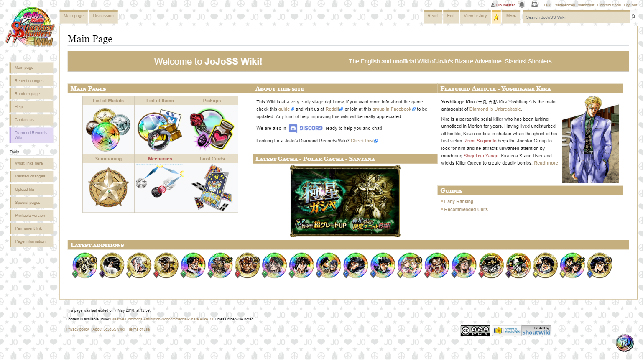
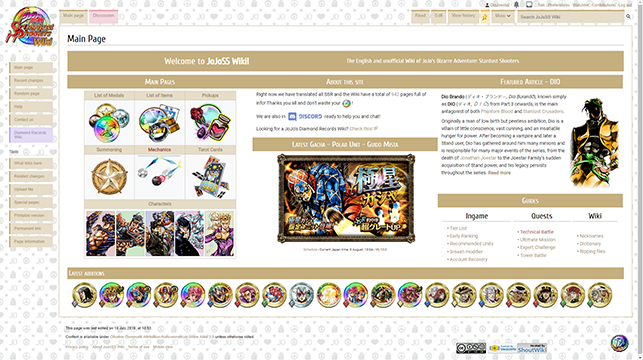
Updated

diff --git a/index.html b/index.html
@@ -12,14 +12,12 @@
 	<!-- jQuery + jQuery UI -->
 	<script type="text/javascript" src="http://ajax.googleapis.com/ajax/libs/jquery/1.3.2/jquery.min.js"></script>
 	<script type="text/javascript" src="http://ajax.googleapis.com/ajax/libs/jqueryui/1.8.9/jquery-ui.min.js"></script>
-
 	<script type="text/javascript">
 	$(function() {
 		$( ".drag" ).draggable({containment: "parent", scroll: false, stack: ".drag"});
 		$( ".drag2" ).draggable({containment: "parent", grid: [ 80, 100 ], opacity: 0.7, scroll: true,});
 	});
 	</script>
-	
 </head>
 <body>
 	<header>
@@ -29,6 +27,12 @@
 		<div class="header">
 			<div id="avatar"></div>
 			<h1>Raúl 'Dio Joestar' Jiménez <span style="color:#ebc055; font-weight:bold;">PORTFOLIO</span></h1>
+			<div class="headerContent">
+				<ul>
+					<li><a href="https://www.artstation.com/diojoestar">ArtStation</a></li>
+					<li><a href="https://www.linkedin.com/in/ra%C3%BAl-jim%C3%A9nez-carrillo-778963105">LinkedIn</a></li>
+				</ul>
+			</div>
 		</div>
 	</header>
 	<div id="menu">
@@ -41,15 +45,16 @@
 	</div>
 	<section id="Main">
 		<div class="container">
-			<div class="edu" style="background:rgba(249, 146, 0, 0.2)">
+			<div class="edu" style="background:rgba(249, 146, 0, 0.2); border-color: #74644e;">
 				<h3>Work in Progress</h3>
 				<p>My portfolio still WiP right now. Check <a target="_blank" href="https://github.com/DioJoestar/Portfolio">GitHub</a> for the last updates.</p>
 			</div>
 			<div class="edu">
 				<h3>Work Experience</h3>
 				<ul>
-					<li><b>Printer Technician</b></li>
-						<ul><li>June 2016 - Currently - <i><a target="_blank" href="http://www.venture.com.sg">Venture Electronics Spain S.L.</a></i> at HP in Sant Cugat del Vallès - Spain</li></ul>
+					<li><b>Technician QA Tester</b></li>
+						<ul><li>June 2016 - April 2019 - <i><a target="_blank" href="http://www.venture.com.sg">Venture Electronics Spain S.L.</a></i> at HP in Sant Cugat del Vallès - Spain</li></ul>
+						<ul>Operating for QA test with large format printers of HP. I worked with the printers <a href="https://www8.hp.com/us/en/commercial-printers/latex-printers/r-series.html">HP Latex R1000 and HP Latex R2000</a>.</ul>
 					<hr />
 					<li><b>Maintenance Technician</b> (Traineeship)</li>
 						<ul><li>Sept. 2012 - Feb. 2013 - <i><a target="_blank" href="http://www.inology.com">Multimos, S.A. (Inology)</a></i> at Terrassa - Spain</li></ul>
@@ -69,11 +74,11 @@
 		<article>
 			<a href="#"><h1>About</h1></a>
 			<hr />
-			<p>Hello, my name is Raúl Jiménez Carrillo also know  Dio Joestar as nickname. I have 25 years old and I'm from Barcelona, Spain.</p>
+			<p>Hello, my name is Raúl Jiménez Carrillo also know  Dio Joestar as nickname. I have <span id="myAge">00</span> years old and I'm from Barcelona, Spain.</p>
 			<br />
 			<p>Since I was a child, I always enjoyed modding and personalizing my computer and video games, from changing the sounds until making new maps.</p>
 			<br />
-			<p>Right now I'm working as technician for <a target="_blank" href="http://www.venture.com.sg">Venture</a> in the HP offices at Sant Cugat del Vallès. I work there testing new large format printers, reporting errors, taking care of supplies, checking the quality of the prints...</p>
+			<p>I also like collecting figures.</p>
 		</article>
 	</section>	
 	<section class="background" id="RETF2">
@@ -97,9 +102,30 @@
 			</div>
 			<div id="B" style="">
 				<p>At 2015 <a target="_blank" href="http://www.teamfortress.com/post.php?id=17410">we did it again</a>, this time with support from <a target="_blank" href="http://www.extelevision.com/">eXtelevision</a>. The Retrospective 2 tournament had over 2300 participants in a total of 5 formats (Highlander, 6v6, RSP, Arena respawn, and Ultiduo).</p>
+				<div class="gallery-container">
+					<ul>
+						<li><a title="Render with Source Filmmaker" href="#RETF2" onclick="document.getElementById('RETF2').className='retros1 background'"><div class="img-small clickable" style="background: url(img/ee22/retrospective_winner.jpg);"></div></a></li>
+						<li><a title="The medals in HLMV" href="#RETF2" onclick="document.getElementById('RETF2').className='retros2 background'"><div class="img-small clickable" style="background: url(img/ee22/retrospective_participant.jpg);"></div></a></li>
+						<div style="clear: both;"></div>
+					</ul>
+				</div>
 			</div>
 			<label for="checkbox" class="scrollbutton"></label>
 		</article>
+	</section>
+	<section id="JoJoSS">
+		<iframe src="http://jojoss.shoutwiki.com/wiki/Main_Page" scrolling="left">
+				<p>Your browser does not support iframes. <a target="_blank" href="http://jojoss.shoutwiki.com">Click here</a>.</p>
+				<a target="_blank" href="http://jojoss.shoutwiki.com">Click here</a>.</p>
+		</iframe>
+		<article>
+			<a href="#JoJoSS"><h1>JoJoSS Wiki</h1></a>
+			<hr />
+			<p>My last proyect and currently active. The <a target="_blank" href="http://jojoss.shoutwiki.com" target="blank_">JoJoSS Wiki</a> it's an unofficial Wiki of JoJo's Bizarre Adventure: Stardust Shooters videogame for Android and iOS.</p> 
+			<br />
+			<p>The game is only available in Japan, that means that there is no translation in any language, so I decided to create a Wiki with a translations of the units (I translate it with help of some friends and Google translate, since I barely have any knowledge of Japanese.).</p>
+			<br />
+		</article>		
 	</section>
 	<section id="OnlineSDK">
 		<iframe src="https://web.archive.org/web/20170216183000/http://onlinesdk.webege.com/" scrolling="left">
@@ -113,7 +139,7 @@
 			<br />
 			<p>It was born as a site where I could share my documentation about modding and a way for learn HTML, CSS, and PHP on my way.</p>
 			<br />
-			<p>Right now it's only an abandoned project.</p>
+			<p>Right now it's only an abandoned project. The embed website is from the <a href="https://archive.org/web/">Wayback Machine</a>.</p>
 			<img class="man" src="img/svg/man.svg"></img>
 		</article>		
 	</section>
@@ -154,7 +180,7 @@
 				<li><div class="wrap"><a target="_blank" target="_blank" href="http://dio-joestar.deviantart.com/art/Demoman-512882327"><div class="img clickable" style="background: url(img/gallery/w_cyclops_visor.jpg)"></div></a></div></li>
 				<li><div class="wrap"><a target="_blank" target="_blank" href="http://dio-joestar.deviantart.com/art/JoJo-s-Bizarre-Adventure-Killer-Queen-519590836"><div class="img clickable" style="background: url(img/gallery/w_killer_queen.jpg)"></div></a></div></li>
 				<li><div class="wrap"><a target="_blank" target="_blank" href="http://tf2.gamebanana.com/skins/131811"><div class="img clickable" style="background: url(img/gallery/demoman_hd.jpg)"></div></a></div></li>
-				<li><div class="wrap"><a target="_blank" target="_blank" href="http://steamcommunity.com/sharedfiles/filedetails/?id=473320009"><div class="img clickable" style="background: url(img/gallery/tf2_trade_stardust_map.jpg)"></div></a></div></li>
+				<li><div class="wrap"><a target="_blank" target="_blank" href="img/gallery/bball1daycup.jpg"><div class="img clickable" style="background: url(img/gallery/bball1daycup.jpg)"></div></a></div></li>
 				<li><div class="wrap"><a target="_blank" target="_blank" href="http://jojoss.shoutwiki.com"><div class="img clickable" style="background: url(img/gallery/JoJoSSWiki.jpg)"></div></a></div></li>
 				<div style="clear: both;"></div>
 			</ul>
@@ -167,10 +193,11 @@
 	</section>
 	<section id="Footer">
 		<div class="foot">
-<pre style="width:100%" >Porforlio made by Raúl 'Dio Joestar' Jiménez. Done with HTML, CSS and jQuery. Last update - 12 May, 2018
+<pre style="width:100%" >Porforlio made by Raúl 'Dio Joestar' Jiménez. Done with HTML, CSS and jQuery. Last update - 06 August, 2019
 
 	Hosted at <a target="_blank" href="https://github.com/DioJoestar/Portfolio">GitHub</a>.</pre>
 		</div>
 	</section>
 </body>
+	<script type="text/javascript" src="js/script.js"></script>
 </html>

diff --git a/css/style.css b/css/style.css
@@ -13,6 +13,7 @@ article,aside,details,figcaption,figure,footer,header,hgroup,menu,nav,section{di
 :root {
 	--main-color: #ebc055;
 	--main-color2: #ffd05c;
+	--secondary-color: #494949;
 	--retf2-color: #bf3d3d;
 	--retf2-color2: #ff5151;
 	--onlinesdk-color: #bfbfbf;
@@ -68,15 +69,23 @@ header img	{float:left; margin:14px; margin-left: 100px;}
 	width: 144px;
 	background: url(../img/avatar.jpg);
 	background-size: cover;
-	position: absolute;
+	float: left;
 }
 
 header h1		{
 	margin-left: 180px;
-	float: left;
 	font-size: 20px;
 	line-height: 50px;
 }
+
+.headerContent {
+    padding: 0 1em 0 1em;
+    margin-left: 144px;
+    font-size: 15px;
+}
+
+.headerContent li {	padding: .2em 0 .2em 0;}
+.headerContent a {color:var(--main-color2);}
 
 section	{
 	position: relative;
@@ -86,7 +95,10 @@ section	{
 	overflow:hidden;
 }
 
-section.background		{background-size:cover !IMPORTANT;}
+section.background		{
+	background-size:cover !IMPORTANT;
+    background-position: right;
+}
 
 a div.clickable:hover {
 	border-bottom: 4px solid #ebc055;
@@ -107,7 +119,7 @@ a div.clickable:hover {
 	z-index: 10;
 }
 
-#menu div{
+#menu div {
 	background: rgba(0,0,0,.25);
 	height: 64px;
 	width: 45px;
@@ -117,7 +129,6 @@ a div.clickable:hover {
 	vertical-align: middle;
 	white-space: nowrap;
 	transition: width .5s;
-	border-left: 4px solid #494949;
 }
 
 #menu div:hover {
@@ -168,6 +179,10 @@ a div.clickable:hover {
 
 #Main p {
 	color: #cdcdcd;
+}
+
+#menu div, .edu {
+	border-left: 4px solid var(--secondary-color);
 }
 
 div.edu {
@@ -232,17 +247,22 @@ div.gallery-container {
 #RETF2.render		 {background-image: url(../img/ee22/retf2_soldier.jpg)}
 #RETF2.medals 		{background-image: url(../img/ee22/hlmv_medals.jpg)}
 #RETF2.concept_art	{background-image: url(../img/ee22/concept_art_ee22_medal.jpg)}
-#RETF2.ingame		{background-image: url(../img/ee22/ingame_screenshot.jpg)}						
+#RETF2.ingame		{background-image: url(../img/ee22/ingame_screenshot.jpg)}
+
+#RETF2.retros1		 {background-image: url(../img/ee22/retrospective_winner.jpg)}
+#RETF2.retros2 		{background-image: url(../img/ee22/retrospective_participant.jpg)}
+#RETF2.concept_art2	{background-image: url(../img/ee22/retf2_concept.jpg)}
+				
 
 /* Switch */
 input#checkbox {display: none}
 input#checkbox:checked ~ div#A					{display:none}
 input#checkbox:checked ~ div#B					{display:block}
-input#checkbox:checked ~ label.scrollbutton	{border-top: 4px solid #494949}
+input#checkbox:checked ~ label.scrollbutton	{border-top: 4px solid var(--secondary-color)}
 
 input#checkbox:not(:checked) ~ div#A				{display:block}
 input#checkbox:not(:checked) ~ div#B				{display:none}
-input#checkbox:not(:checked) ~ label.scrollbutton 	{border-bottom: 4px solid #494949}
+input#checkbox:not(:checked) ~ label.scrollbutton 	{border-bottom: 4px solid var(--secondary-color)}
 
 label.scrollbutton {
 	position: absolute;
@@ -258,6 +278,26 @@ label.scrollbutton:hover {
 	border-color: #bf3d3d !IMPORTANT;
 }
 
+#JoJoSS {
+	background: url(../img/Jojobackground.png);
+	background-position-x: 20px;
+}
+
+#JoJoSS article {
+		background: white;
+		border: 1px solid #c5af7f !IMPORTANT;
+		margin: -25px;
+		margin-top: 0;
+		padding: 25px;
+}
+
+#JoJoSS h1 {color:black}
+
+	
+
+#JoJoSS *	{color: black !IMPORTANT}
+#JoJoSS a {color: #a99577 !IMPORTANT}
+
 #OnlineSDK	{
 	background-color: #101010;
 	-webkit-background-size:cover;
@@ -269,7 +309,7 @@ label.scrollbutton:hover {
 	box-shadow: inset 500px 0px 0px 0px #1c1c1c;
 }
 
-#OnlineSDK iframe {
+#OnlineSDK iframe, #JoJoSS iframe {
 	position: absolute;
 	margin-top: -100px;
 	margin-left: 400px;
@@ -389,6 +429,7 @@ label.scrollbutton:hover {
 	right: 0;
 	left: 0;
 	background-size: 100% !IMPORTANT;
+	background-position: center !IMPORTANT;
 }
 
 #Contact {

diff --git a/js/script.js b/js/script.js
@@ -1,0 +1,9 @@
+function age() {
+	var birthdate = new Date("1992/2/14");
+	var year = new Date()-birthdate;
+	var ageCalc = Math.floor(year/31536000000);
+	document.getElementById('myAge').innerHTML = ageCalc
+}
+window.onload = age(); {
+	age();
+}
